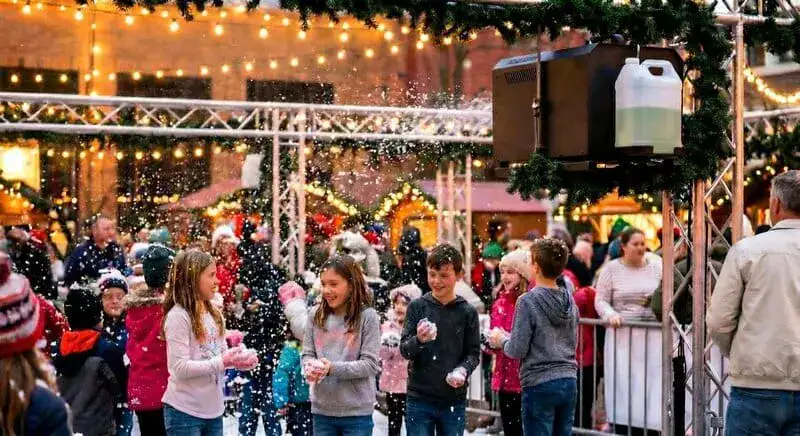
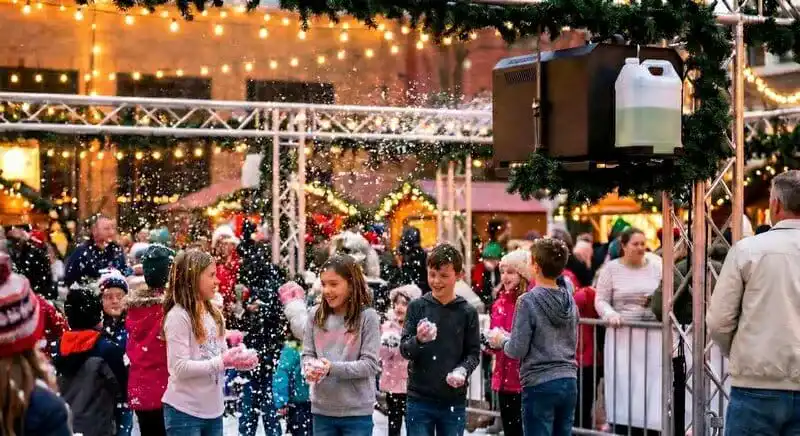
fix: aggressively optimize images and throttle scroll for perf

diff --git a/src/components/Navbar.tsx b/src/components/Navbar.tsx
@@ -24,8 +24,10 @@ export default function Navbar() {
   const [isVisible, setIsVisible] = useState(true);
   const lastScrollY = useRef(0);
 
-  // Handle navbar visibility on scroll
+  // Handle navbar visibility on scroll with throttling
   useEffect(() => {
+    let ticking = false;
+
     const controlNavbar = () => {
       const currentScrollY = window.scrollY;
       const isMobile = window.innerWidth < 768; // md breakpoint
@@ -47,11 +49,20 @@ export default function Navbar() {
       lastScrollY.current = currentScrollY;
     };
 
-    window.addEventListener('scroll', controlNavbar, { passive: true });
-    window.addEventListener('resize', controlNavbar);
+    const onScroll = () => {
+      if (!ticking) {
+        window.requestAnimationFrame(() => {
+          controlNavbar();
+          ticking = false;
+        });
+        ticking = true;
+      }
+    };
+
+    window.addEventListener('scroll', onScroll, { passive: true });
+    // Resize could change isMobile, but scroll handler covers it eventually. Optimization: good enough.
     return () => {
-      window.removeEventListener('scroll', controlNavbar);
-      window.removeEventListener('resize', controlNavbar);
+      window.removeEventListener('scroll', onScroll);
     };
   }, []);
 

diff --git a/scripts/resize_images.py b/scripts/resize_images.py
@@ -23,19 +23,22 @@ for img_name in images_to_resize:
         small_name = img_name.replace(".webp", "-small.webp")
         small_path = os.path.join(assets_dir, small_name)
         print(f"Resizing {img_name} to {small_name} (400px)...")
-        subprocess.run(["ffmpeg", "-y", "-i", input_path, "-vf", "scale=400:-1", "-c:v", "libwebp", "-quality", "60", small_path], check=True)
+        # Quality 50
+        subprocess.run(["ffmpeg", "-y", "-i", input_path, "-vf", "scale=400:-1", "-c:v", "libwebp", "-quality", "50", small_path], check=True)
 
         # Generate Large/Intermediate (600px)
         large_name = img_name.replace(".webp", "-large.webp")
         large_path = os.path.join(assets_dir, large_name)
         print(f"Resizing {img_name} to {large_name} (600px)...")
-        subprocess.run(["ffmpeg", "-y", "-i", input_path, "-vf", "scale=600:-1", "-c:v", "libwebp", "-quality", "60", large_path], check=True)
+        # Quality 50
+        subprocess.run(["ffmpeg", "-y", "-i", input_path, "-vf", "scale=600:-1", "-c:v", "libwebp", "-quality", "50", large_path], check=True)
         
         # Generate Medium (800px)
         medium_name = img_name.replace(".webp", "-medium.webp")
         medium_path = os.path.join(assets_dir, medium_name)
         print(f"Resizing {img_name} to {medium_name} (800px)...")
-        subprocess.run(["ffmpeg", "-y", "-i", input_path, "-vf", "scale=800:-1", "-c:v", "libwebp", "-quality", "60", medium_path], check=True)
+        # Quality 50
+        subprocess.run(["ffmpeg", "-y", "-i", input_path, "-vf", "scale=800:-1", "-c:v", "libwebp", "-quality", "50", medium_path], check=True)
 
     else:
         print(f"Warning: {img_name} not found!")
@@ -44,17 +47,17 @@ for img_name in images_to_resize:
 hero_bg = "hero-bg.webp"
 hero_input_path = os.path.join(assets_dir, hero_bg)
 if os.path.exists(hero_input_path):
-    # Mobile Portrait (600w - covers most mobile DPRs and heights)
+    # Mobile Portrait (600w)
     hero_small = "hero-bg-small.webp"
     hero_small_path = os.path.join(assets_dir, hero_small)
     print(f"Resizing {hero_bg} to {hero_small} (600px)...")
-    subprocess.run(["ffmpeg", "-y", "-i", hero_input_path, "-vf", "scale=600:-1", "-c:v", "libwebp", "-quality", "65", hero_small_path], check=True)
+    subprocess.run(["ffmpeg", "-y", "-i", hero_input_path, "-vf", "scale=600:-1", "-c:v", "libwebp", "-quality", "50", hero_small_path], check=True)
 
     # Tablet/Laptop (1024w)
     hero_medium = "hero-bg-medium.webp"
     hero_medium_path = os.path.join(assets_dir, hero_medium)
     print(f"Resizing {hero_bg} to {hero_medium} (1024px)...")
-    subprocess.run(["ffmpeg", "-y", "-i", hero_input_path, "-vf", "scale=1024:-1", "-c:v", "libwebp", "-quality", "65", hero_medium_path], check=True)
+    subprocess.run(["ffmpeg", "-y", "-i", hero_input_path, "-vf", "scale=1024:-1", "-c:v", "libwebp", "-quality", "50", hero_medium_path], check=True)
 else:
     print(f"Warning: {hero_bg} not found!")
 
@@ -65,7 +68,8 @@ if os.path.exists(logo_input_path):
     logo_webp_name = "logo-reflex-som.webp"
     logo_webp_path = os.path.join(assets_dir, logo_webp_name)
     print(f"Resizing {logo_png} to {logo_webp_name} (185px)...")
-    subprocess.run(["ffmpeg", "-y", "-i", logo_input_path, "-vf", "scale=185:-1", "-c:v", "libwebp", "-quality", "60", logo_webp_path], check=True)
+    # Quality 50
+    subprocess.run(["ffmpeg", "-y", "-i", logo_input_path, "-vf", "scale=185:-1", "-c:v", "libwebp", "-quality", "50", logo_webp_path], check=True)
 else:
     print("Logo png not found")
 
